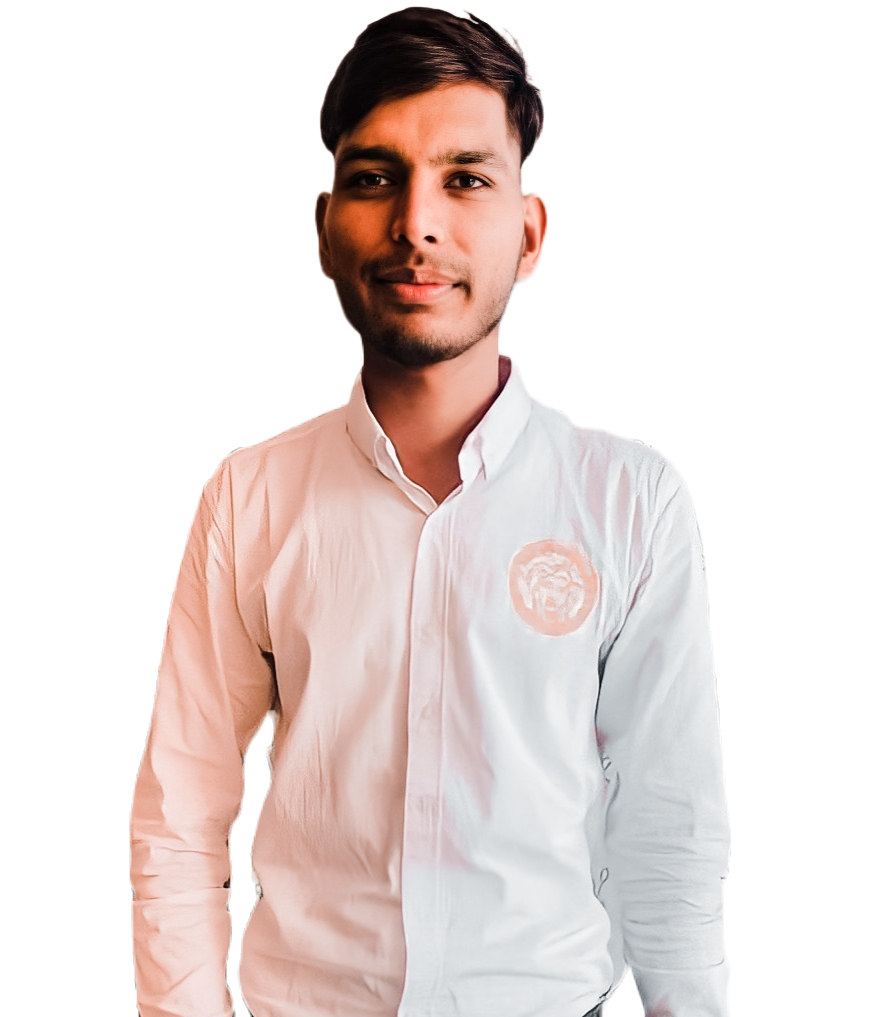
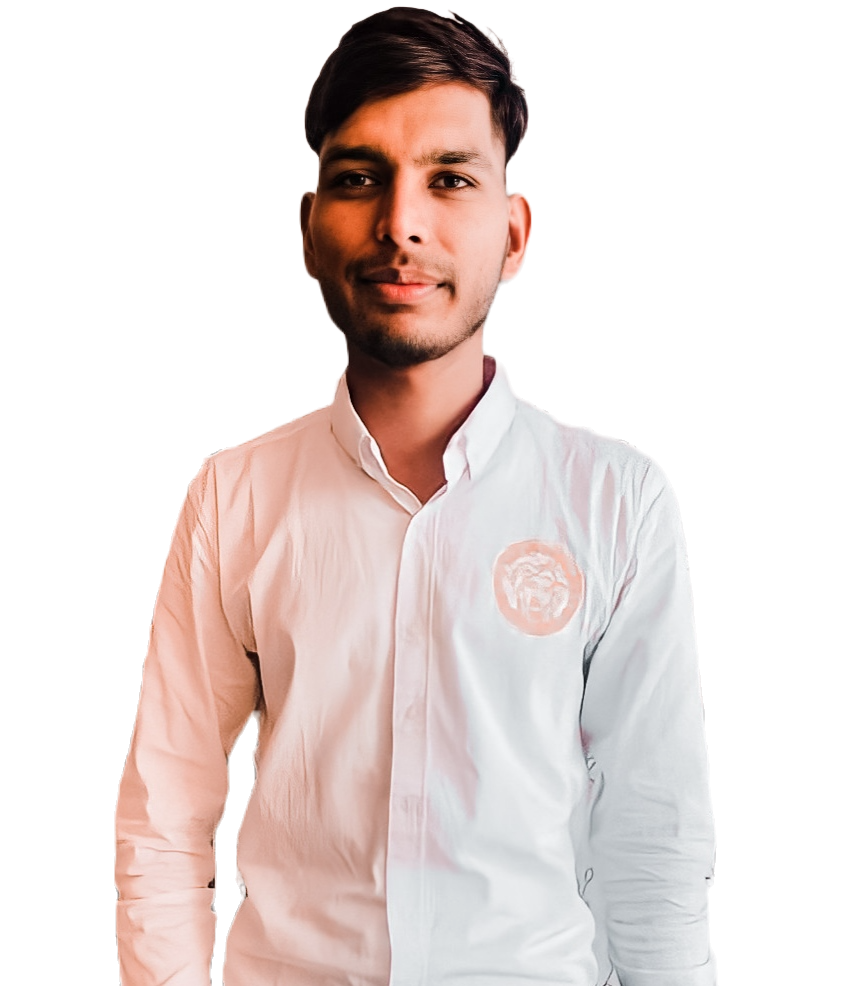
changed image

diff --git a/src/components/home/components/BigImage.tsx b/src/components/home/components/BigImage.tsx
@@ -2,7 +2,7 @@ import bigImg from '../../../assets/myImage/myBigImg.png'
 
 function BigImage() {
   return (
-    <div className="mt-4 justify-items-end hidden md:block h-[85%] rounde-full">
+    <div className="mt-4 justify-items-end hidden md:block h-[90%] rounde-full">
       <img src={bigImg} alt="" className="w-full h-full bg-contain" />
     </div>
   )
